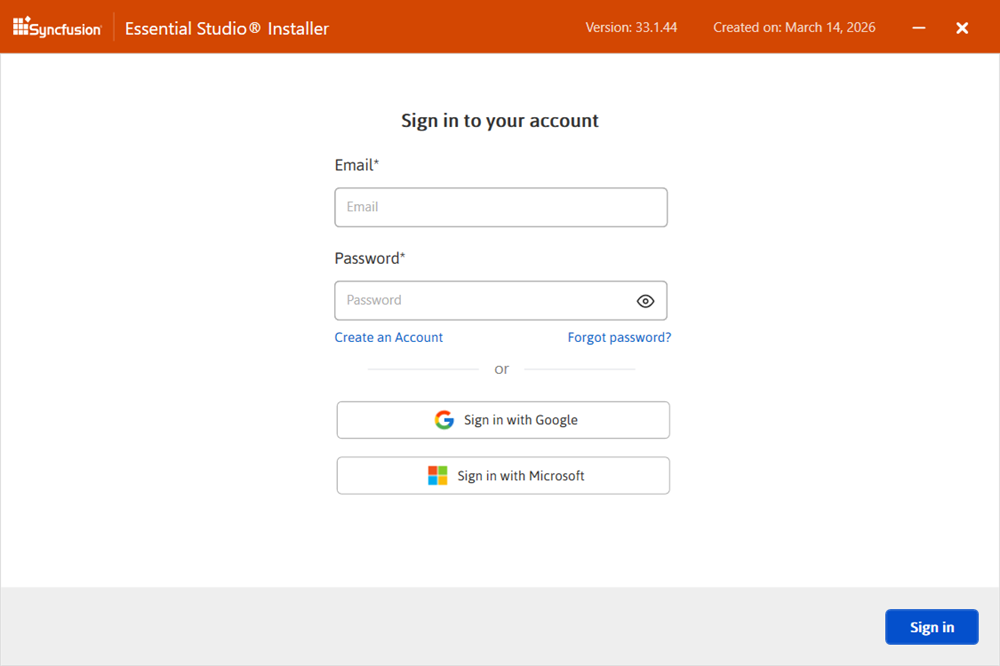
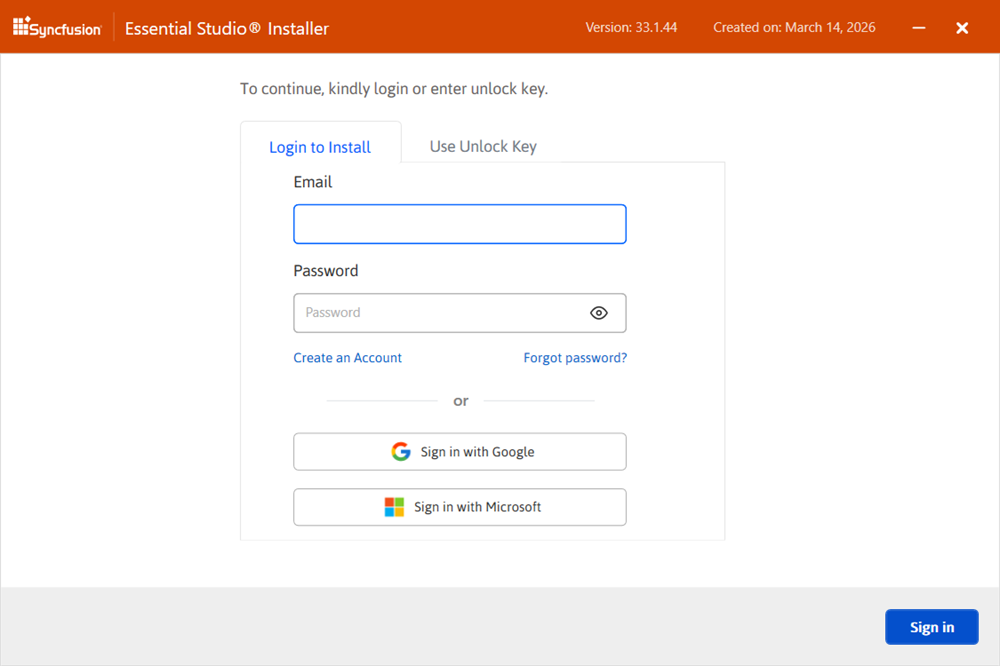
Updated the ES Enterprise Edition Installer UG.

diff --git a/Common/Essential-Studio/Installation/essential-studio-enterprise-edition-installer/how-to-install.md b/Common/Essential-Studio/Installation/essential-studio-enterprise-edition-installer/how-to-install.md
@@ -25,8 +25,6 @@ Before you begin, confirm the following:
 * You are running the installer with administrator privileges. Right-click the setup file and choose **Run as administrator** if User Account Control (UAC) is enabled.
 * If you are using an Unlock Key (offline activation), ensure the key file is available on the local machine.
 
-I> * The Essential Studio<sup style="font-size:70%">&reg;</sup> Enterprise Edition Installer can be installed with either the Login or Unlock key.
-
 **Web**
 
 * ASP.NET MVC
@@ -65,10 +63,7 @@ I> * The Essential Studio<sup style="font-size:70%">&reg;</sup> Enterprise Editi
 
 N> Universal Windows Platform will be installed in Windows 8.1 and later.
 
-N> Offline (Unlock Key) installations do not require an internet connection during install, but the installer must be able to read the license key file from the local disk.
-
-
-The steps below show how to install the Essential Studio<sup style="font-size:70%">&reg;</sup> Enterprise Edition Installer.
+### The steps below show how to install the Essential Studio<sup style="font-size:70%">&reg;</sup> Enterprise Edition Installer.
 
 1.  Locate the extracted installer folder from the downloaded ZIP and double-click `syncfusionessentialstudiosetup_{version}.exe` to launch it. If User Account Control (UAC) prompts for permission, click **Yes** to allow the installer to run with administrator privileges. The Installer Wizard automatically opens and extracts the package.
 
@@ -76,17 +71,28 @@ The steps below show how to install the Essential Studio<sup style="font-size:70
 
     N> The installer wizard extracts the `syncfusionessentialstudiosetup_{version}.exe` package and displays the unzip progress.
 
-2.  The login wizard will appear. You must enter your Syncfusion<sup style="font-size:70%">&reg;</sup> email address and password. If you do not already have a Syncfusion<sup style="font-size:70%">&reg;</sup> account, you can create one by clicking on **Create an Account**. If you have forgotten your password, click **Forgot Password** to create a new one. Click the Sign in button.
+2.  To unlock the Essential Studio<sup style="font-size:70%">&reg;</sup> Enterprise Edition Installer, you have two options:
+
+    * *Login To Install*
+
+    * *Use Unlock Key*
+
+3.  In default the login wizard will appear. You must enter your Syncfusion<sup style="font-size:70%">&reg;</sup> email address and password. If you do not already have a Syncfusion<sup style="font-size:70%">&reg;</sup> account, you can create one by clicking on **Create an Account**. If you have forgotten your password, click **Forgot Password** to create a new one. Click the Sign in button.
     ![Login wizard](images/Step-by-Step-Installation_img9.png)
 
     N> If sign-in fails with "Invalid credentials", verify the email/password, ensure your account has an active Enterprise license, and confirm that the machine has an active internet connection. Contact [Syncfusion Support](https://www.syncfusion.com/support) if the issue persists.
+
+4. Alternatively, you can click on the **Use Unlock Key** tab to unlock using an unlock key. Enter your unlock key in the **Unlock Key** text field and click the **Sign in** button.
+
+    ![Use Unlock Key tab](images/Step-by-Step-Installation_unlock_key_img.png)
+
+    N> Only Essential Studio (ES) and Essential Studio UI (ESUI) unlock keys are supported for this installer. To learn how to generate an unlock key for both trial and licensed products, see [this](https://www.syncfusion.com/kb/2326) Knowledge Base article. Offline (Unlock Key) installations do not require an internet connection during install, but the installer must be able to read the license key file from the local disk.
     
-3.  The Syncfusion<sup style="font-size:70%">&reg;</sup> Offline Installer's welcome wizard will be displayed. Click the **Next** button to continue.
+5.  The Essential Studio<sup style="font-size:70%">&reg;</sup> Enterprise Edition Installer welcome wizard will be displayed. Click the **Next** button to continue.
 
     ![Welcome wizard](images/Step-by-Step-Installation_img2.png)
-
   
-4.  The Platform Selection Wizard will appear. From the **Available** tab, select the products to be installed. Select the **Install All** checkbox to install all products.
+6.  The Platform Selection Wizard will appear. From the **Available** tab, select the products to be installed. Select the **Install All** checkbox to install all products.
 
     <em>**Available**</em>
 	
@@ -106,14 +112,14 @@ The steps below show how to install the Essential Studio<sup style="font-size:70
 
     ![Additional Software Required alert](images/Step-by-Step-Installation_img5.png)
 	
-5.  If previous version(s) for the selected products are installed, the **Uninstall previous version** wizard will be displayed. You can see the list of previously installed versions for the products you have chosen here. To remove all versions, check the **Uninstall All** checkbox. Click the **Next** button.
+7.  If previous version(s) for the selected products are installed, the **Uninstall previous version** wizard will be displayed. You can see the list of previously installed versions for the products you have chosen here. To remove all versions, check the **Uninstall All** checkbox. Click the **Next** button.
 
     N> From the 2021 Volume 1 release (v18.1), Syncfusion<sup style="font-size:70%">&reg;</sup> provides the option to uninstall the previous versions of selected products while installing the new version.
 
-6.  A confirmation pop-up screen will be displayed to confirm the uninstallation of the selected previous versions. Click **Yes** to proceed or **No** to cancel the uninstallation.
+8.  A confirmation pop-up screen will be displayed to confirm the uninstallation of the selected previous versions. Click **Yes** to proceed or **No** to cancel the uninstallation.
 
 
-7.  The Confirmation Wizard will appear with a list of products to be installed and uninstalled. 
+9.  The Confirmation Wizard will appear with a list of products to be installed and uninstalled. 
 
     I> The confirmation list reflects the selections made in Steps 4 and 5. Expanding a product node allows you to view or modify individual components before the installation begins. You can view and modify the list of products that will be installed or uninstalled on this page. Click Next to continue.
 
@@ -122,7 +128,7 @@ The steps below show how to install the Essential Studio<sup style="font-size:70
     N> By clicking the **Download Size and Installation Size** links, you can determine the approximate size of the download and installation.
 	
    
-8.  The **Configuration Wizard** will be displayed. Here you can change the **Install** and **Samples** location. You can also change the **Additional Settings** on a per-platform basis. To install using the default configuration, click **Next**.
+1.  The **Configuration Wizard** will be displayed. Here you can change the **Install** and **Samples** location. You can also change the **Additional Settings** on a per-platform basis. To install using the default configuration, click **Next**.
 
     ![Install and samples location](images/Step-by-Step-Installation_img8.png)
 	
@@ -135,15 +141,15 @@ The steps below show how to install the Essential Studio<sup style="font-size:70
     * Check the **Create Desktop Shortcut** checkbox to add a desktop shortcut for Syncfusion<sup style="font-size:70%">&reg;</sup> Control Panel
     * Check the **Create Start Menu Shortcut** checkbox to add a shortcut to the start menu for Syncfusion<sup style="font-size:70%">&reg;</sup> Control Panel
 
-9.  After reading the License Terms and Conditions, check the **I agree to the License Terms and Privacy Policy** check box. Click the **Next** button to proceed.
+11.  After reading the License Terms and Conditions, check the **I agree to the License Terms and Privacy Policy** check box. Click the **Next** button to proceed.
 
 
-10. The download and installation/uninstallation progress will be displayed as shown below. Do not close the wizard or turn off the machine while the progress bar is active.
+12. The download and installation/uninstallation progress will be displayed as shown below. Do not close the wizard or turn off the machine while the progress bar is active.
 
     ![Install using Key](images/Step-by-Step-Installation_img10.png)
 
 
-11. When the installation is finished, the **Summary** wizard will appear. Here you can see the list of products that have been installed successfully and those that have failed. To close the Summary wizard, click **Finish**.
+13. When the installation is finished, the **Summary** wizard will appear. Here you can see the list of products that have been installed successfully and those that have failed. To close the Summary wizard, click **Finish**.
 
     ![ES Installation Summary](images/Step-by-Step-Installation_img11.png)
 
